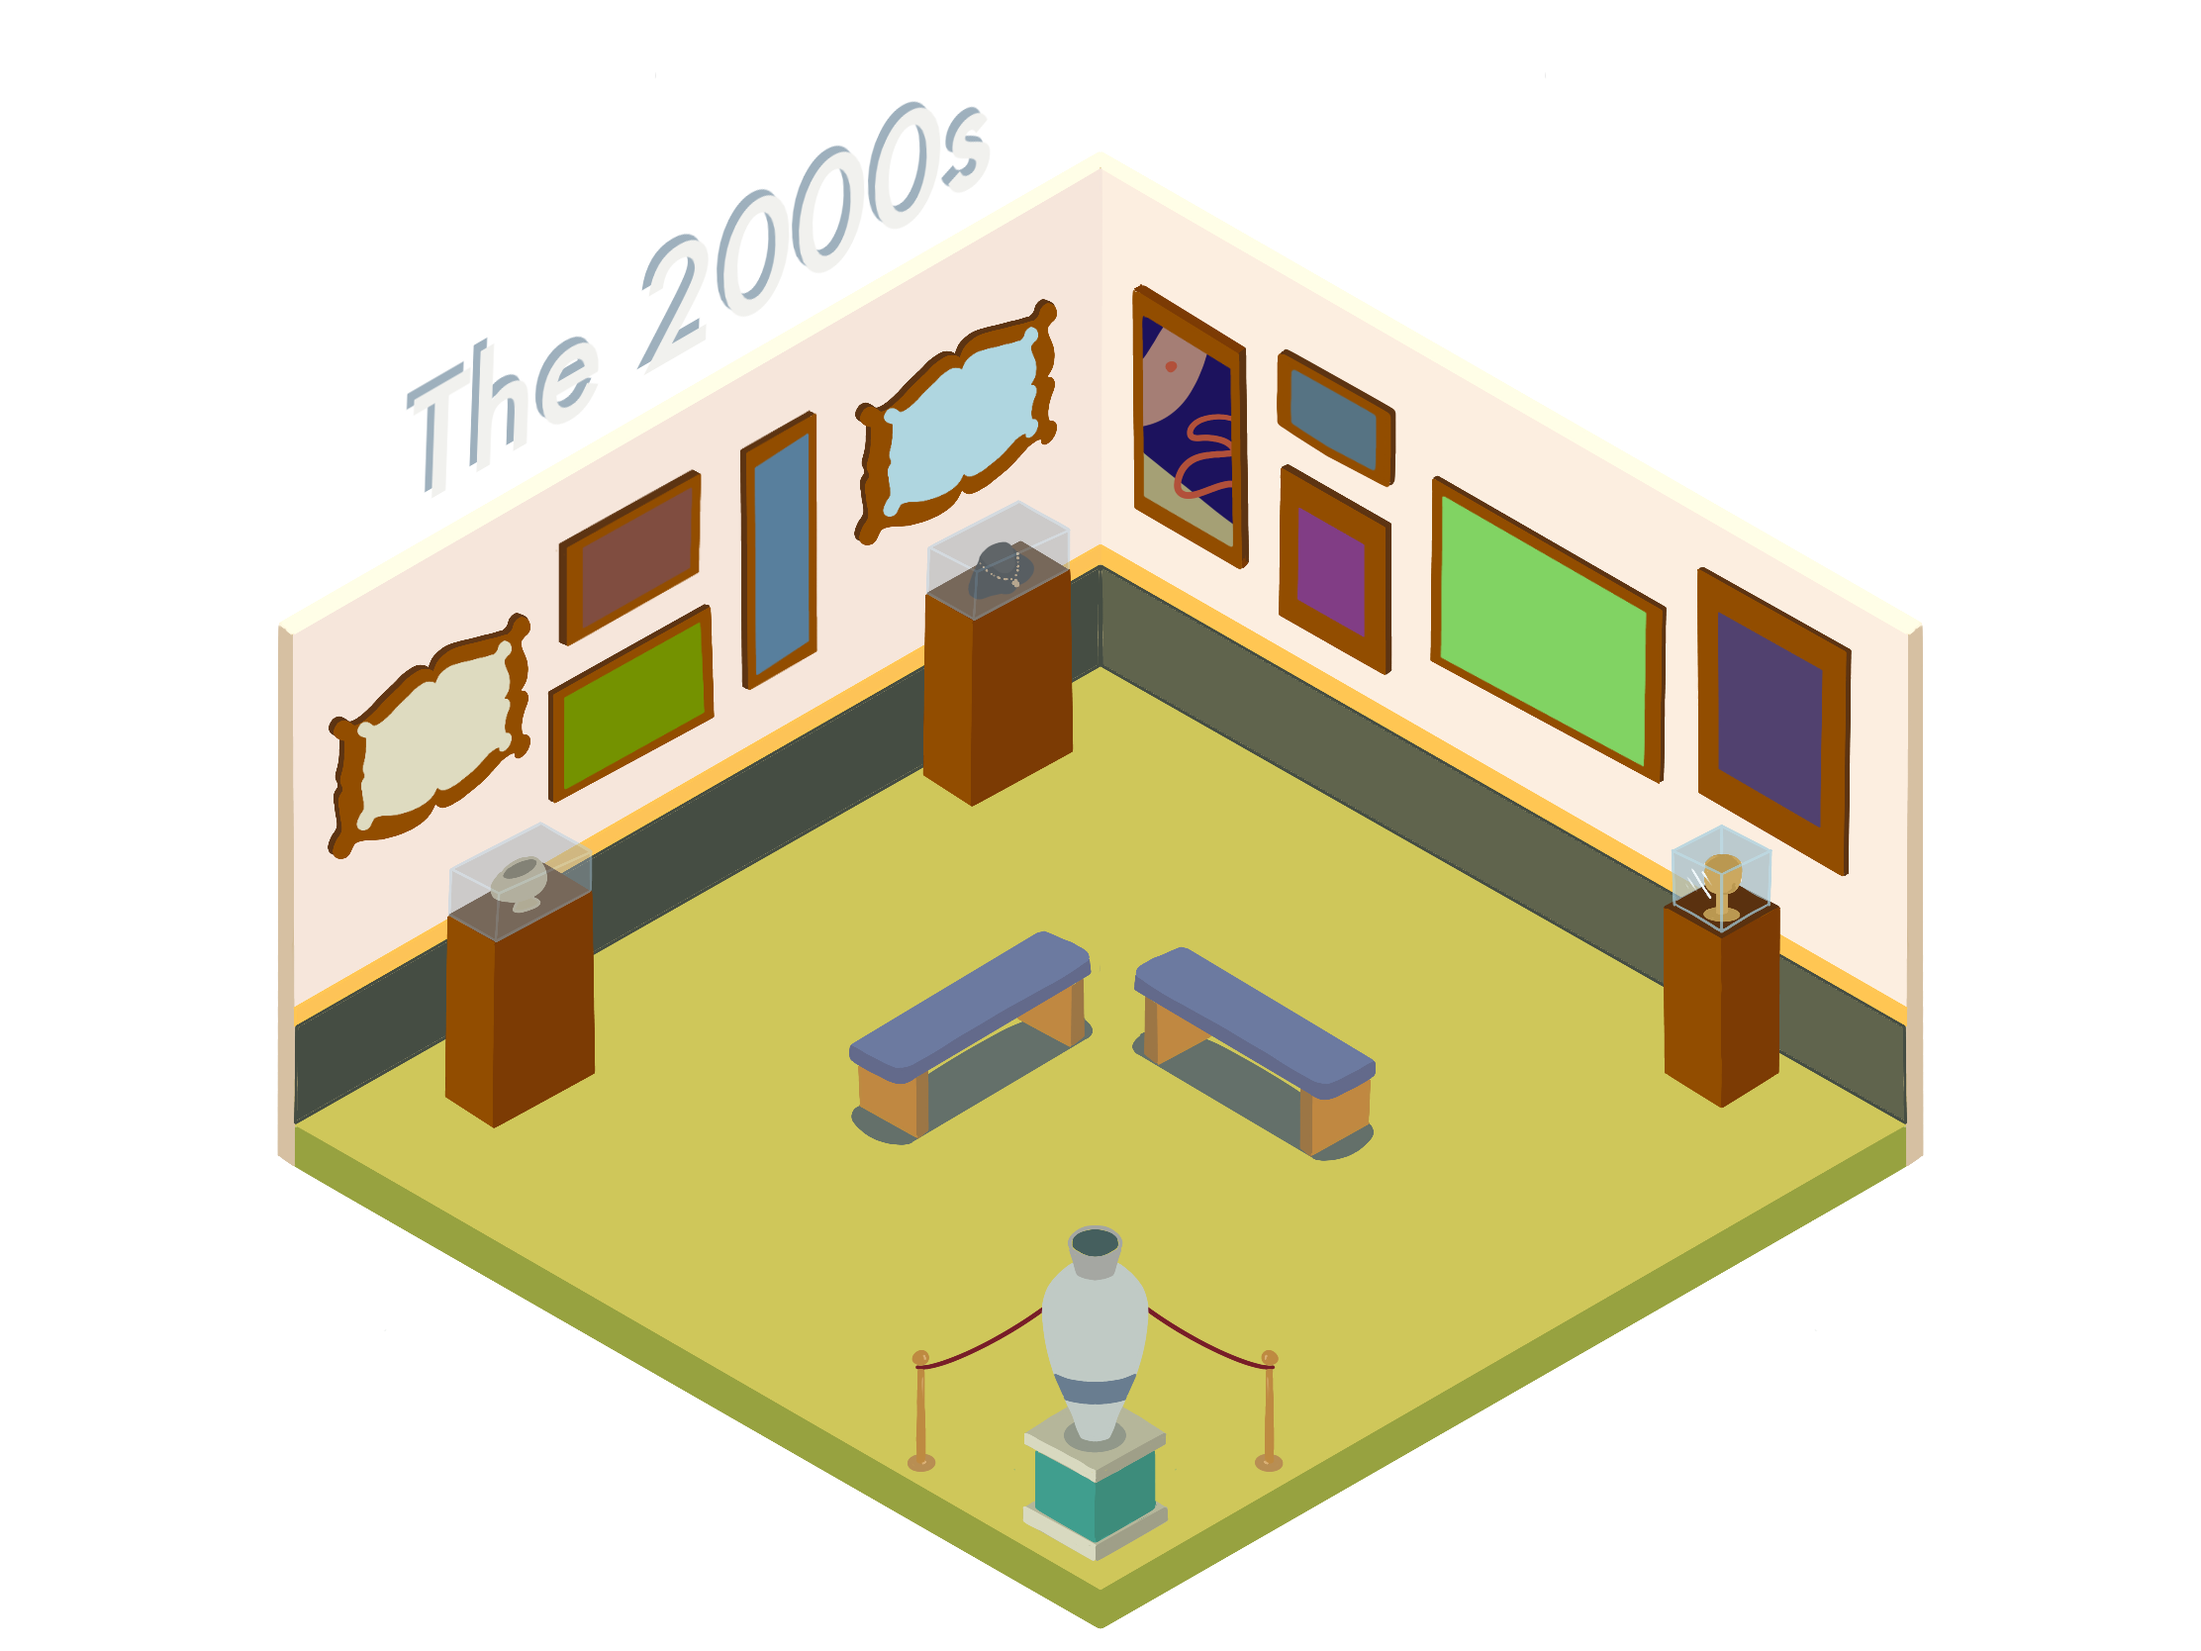
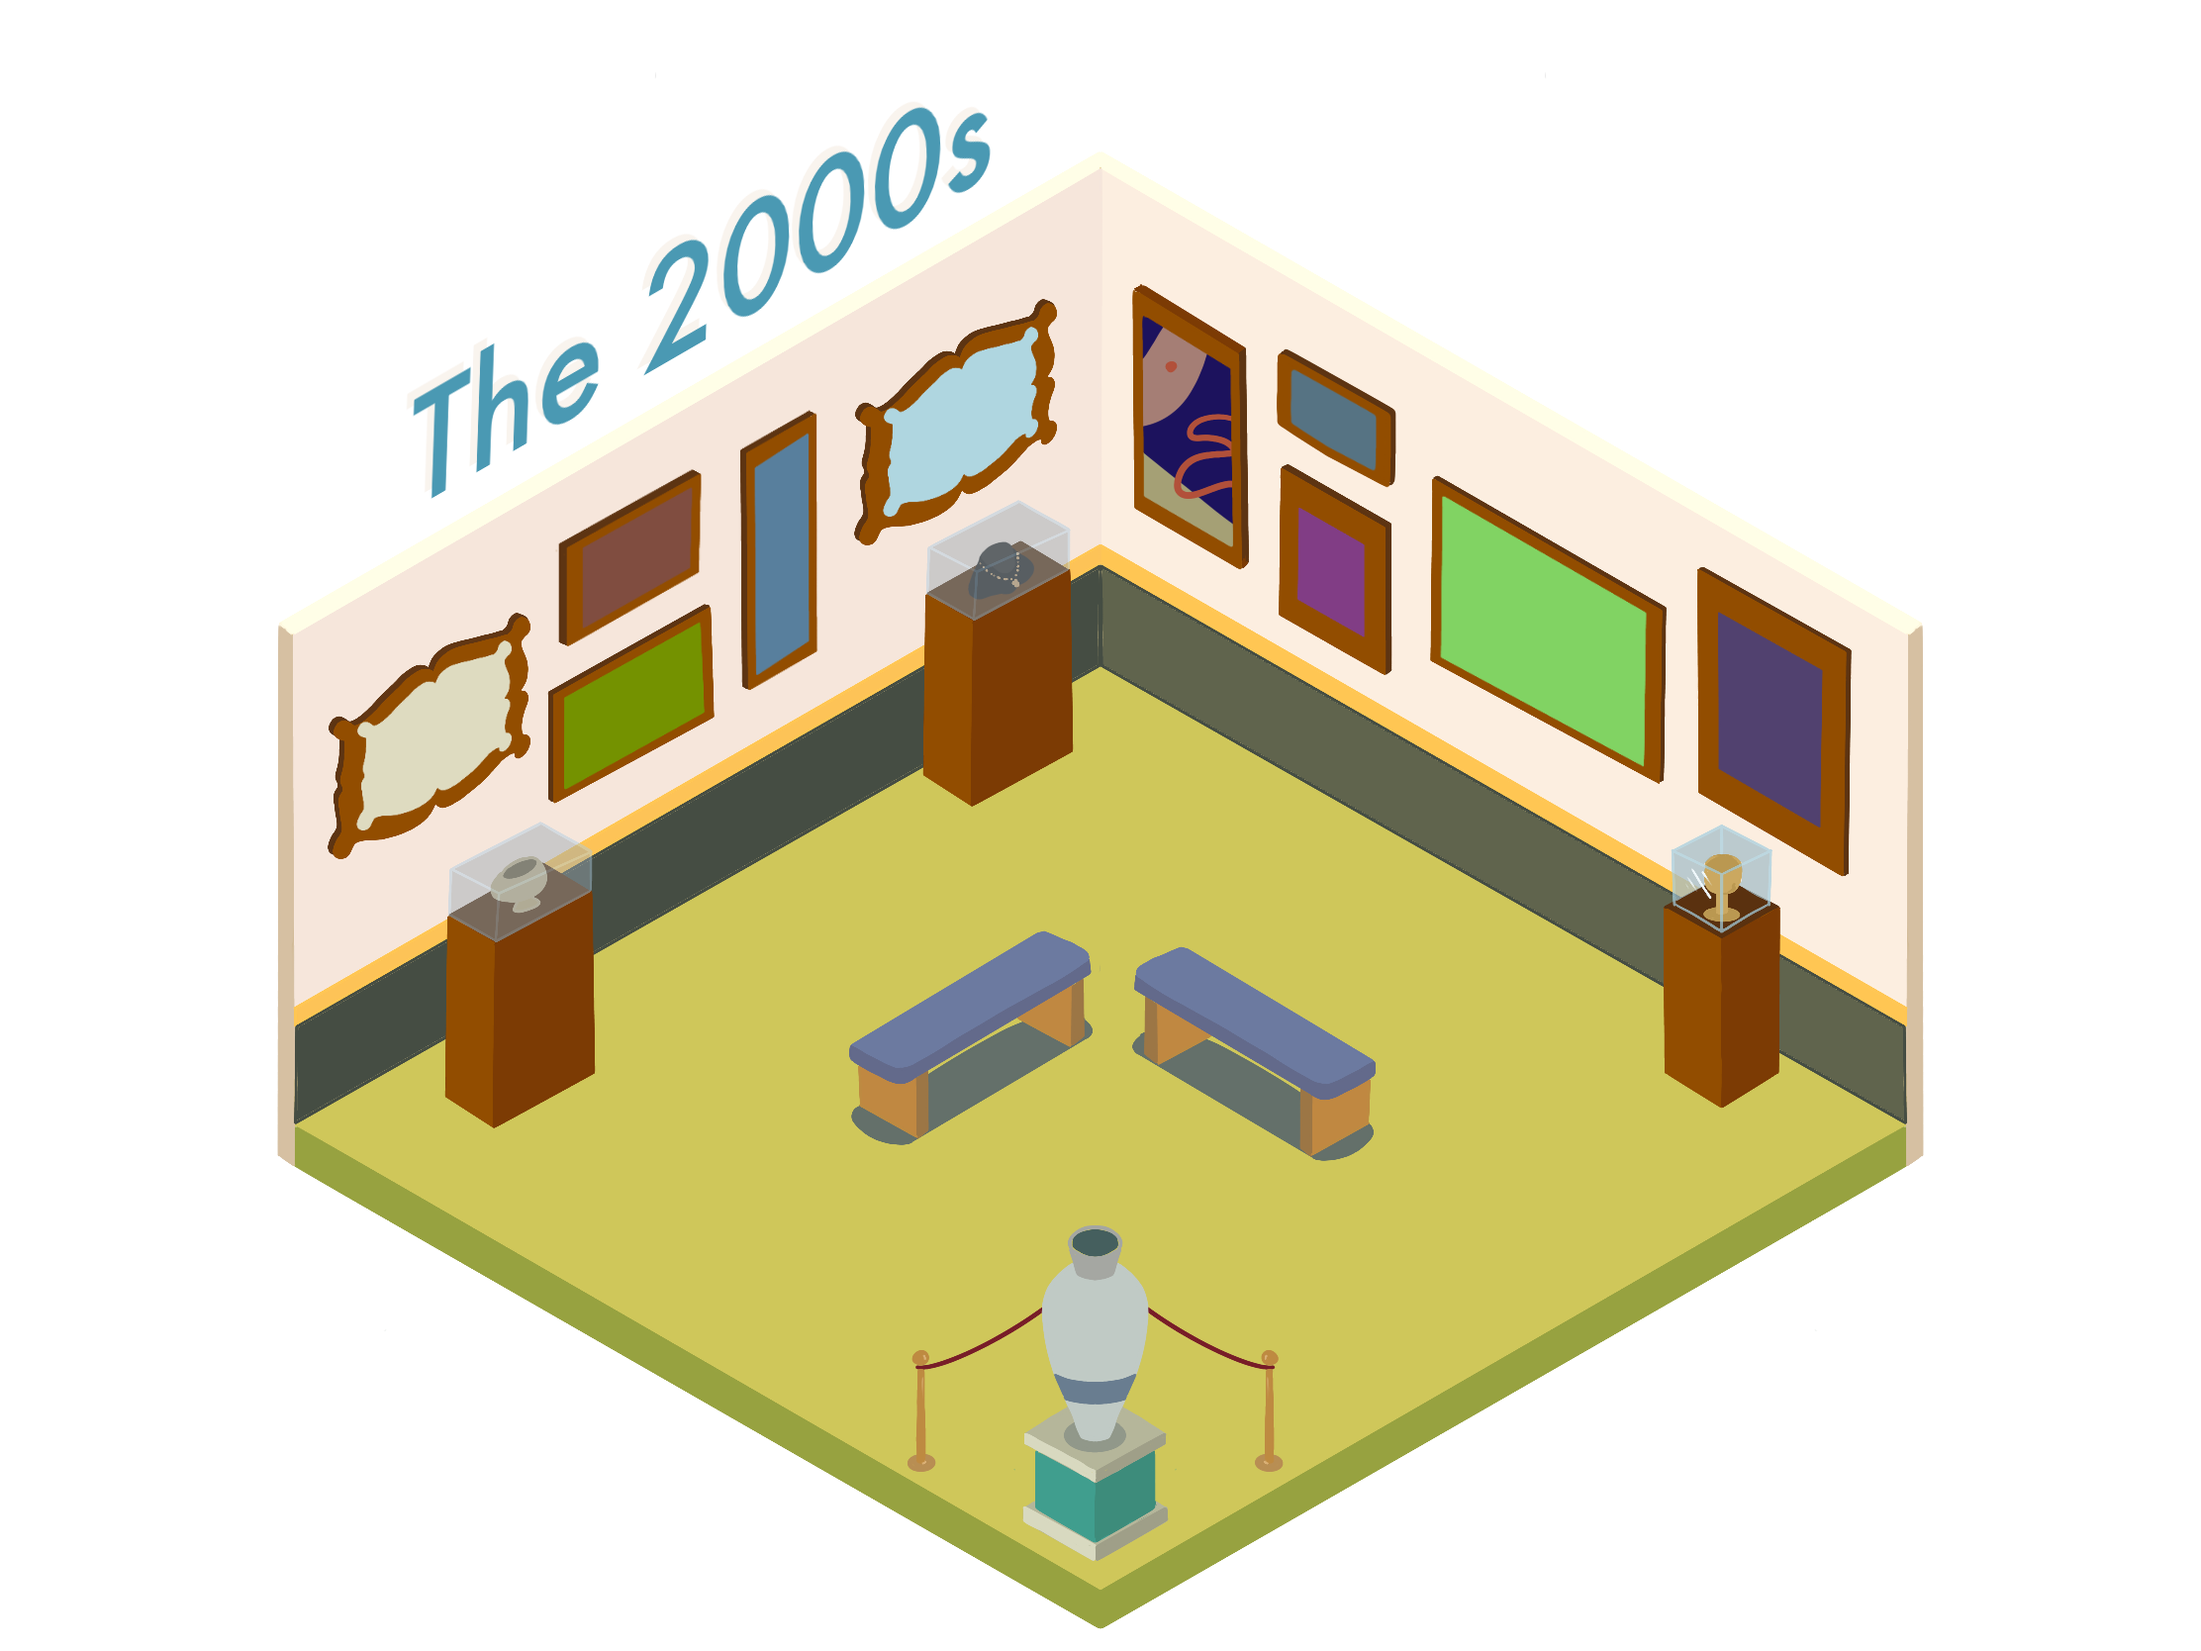
modal popup intro

Changed region(s): [[0.1862, 0.0624, 0.4654, 0.3118]]

diff --git a/index.html b/index.html
@@ -4,12 +4,44 @@
     <meta charset="UTF-8" />
     <link rel="stylesheet" href="mystyles.css">
     <link href="https://fonts.googleapis.com/css2?family=Didact+Gothic&display=swap" rel="stylesheet">
-    
+    <link rel="stylesheet" href="https://stackpath.bootstrapcdn.com/bootstrap/4.5.0/css/bootstrap.min.css">
+<script src="https://code.jquery.com/jquery-3.5.1.min.js"></script>
+<script src="https://stackpath.bootstrapcdn.com/bootstrap/4.5.0/js/bootstrap.min.js"></script>
+<script>
+
+setTimeout(function() {
+   $('#myModal').modal();
+}, 2800);
+
+</script>
     <title>MDST FINAL CREATIVE PROJECT</title>
   </head>
-  <body>
-    <h1>Museum of Ads & the Male Gaze</h1>
 
+
+  <body>
+    <h1 id = thetitlee >Museum of Ads & the Male Gaze</h1>
+    <!-- The Modal -->
+    <div id="myModal" class="modal fade">
+      <div class="modal-dialog">
+          <div class="modal-content">
+              <div class="modal-header">
+                  <h3 class="modal-title">Welcome to our Final Research Project!</h3>
+                  <button type="button" class="close" data-dismiss="modal">&times;</button>
+              </div>
+              <div class="modal-body">
+          <h5>What is this?</h5>
+          <p>
+            The Museum of Ads and the Male Gaze is a digital museum exploring the male gaze in food and drink advertising from the 1970s to today.  We will explore different print media in each decade and break down signifiers in the advertisements that exemplify the male gaze.  Some decades have very obvious signifiers of sexualization or objectification, while others might be more subtle in their use of the male gaze.  In spite of these differences, the male gaze has continuously impacted advertising in past decades and still does today.
+            </p>
+          <h5>How to view:</h5>
+          <p>  
+          Click through the various decades to explore different examples of advertising and how the male gaze has remained prevalent throughout food advertising in the last several decades but taken on different forms.  Happy gazing!
+            </p>
+
+              </div>
+          </div>
+      </div>
+  </div>
   </body>
   <div class = decades>
       <a href="./the70s.html">
@@ -26,4 +58,8 @@
     </a>
 
   </div>
+
+
+
+
 </html>

diff --git a/mystyles.css b/mystyles.css
@@ -1,18 +1,16 @@
- *{
+body{
     background-color: rgb(74, 152, 179);
     margin: 0;
     padding: 0;
     box-sizing: border-box;
     font-family: 'Didact Gothic', sans-serif;
   }
-  body{
-    }
-    
-  h1{
-    font-size: 50px;
-    color: rgb(247, 242, 225);
+
+  #thetitlee{
+    font-size: 60px;
+    color: rgb(74, 152, 179);
     text-align: center;
-    animation: text 3s 1;
+    animation: text 2s 1;
     letter-spacing: 8px;
     padding-bottom: 50px;
     padding-top: 20px;
@@ -26,6 +24,7 @@
       flex-wrap: wrap;
       align-items: center;
       justify-content: center;
+
   }
  .decades img {
     width: 40%;
@@ -60,6 +59,9 @@
         margin-bottom: -40px;
     }
 }
+
+
+
   /* Responsive layout - makes the three columns stack on top of each other instead of next to each other */
 @media screen and (max-width: 500px) {
   }
